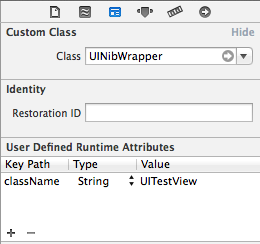
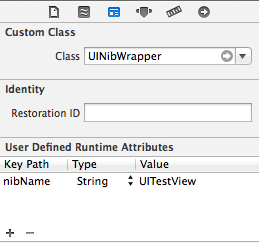
Refracting names

diff --git a/Source/UINibWrapper.m b/Source/UINibWrapper.m
@@ -29,12 +29,12 @@
     
     self.backgroundColor = [UIColor clearColor];
     
-    Class viewClass = NSClassFromString(_className);
+    Class viewClass = NSClassFromString(_nibName);
     
     if (!viewClass)
         viewClass = UIView.class;
     
-    UIView *view = [viewClass nwp_instanceFromNibName:_className];
+    UIView *view = [viewClass nwp_instanceFromNibName:_nibName];
     
     if (view)
     {

diff --git a/Source/UINibWrapper.h b/Source/UINibWrapper.h
@@ -25,7 +25,7 @@
  * The name of the class of the nested view (same as the name of the nib file).
  * @discussion You must assing this property in the "User Defined Runtime Attributes" in Interface Builder.
  **/
-@property (nonatomic, strong) NSString *className;
+@property (nonatomic, strong) NSString *nibName;
 
 /**
  * Returns the instance of the nested view.
